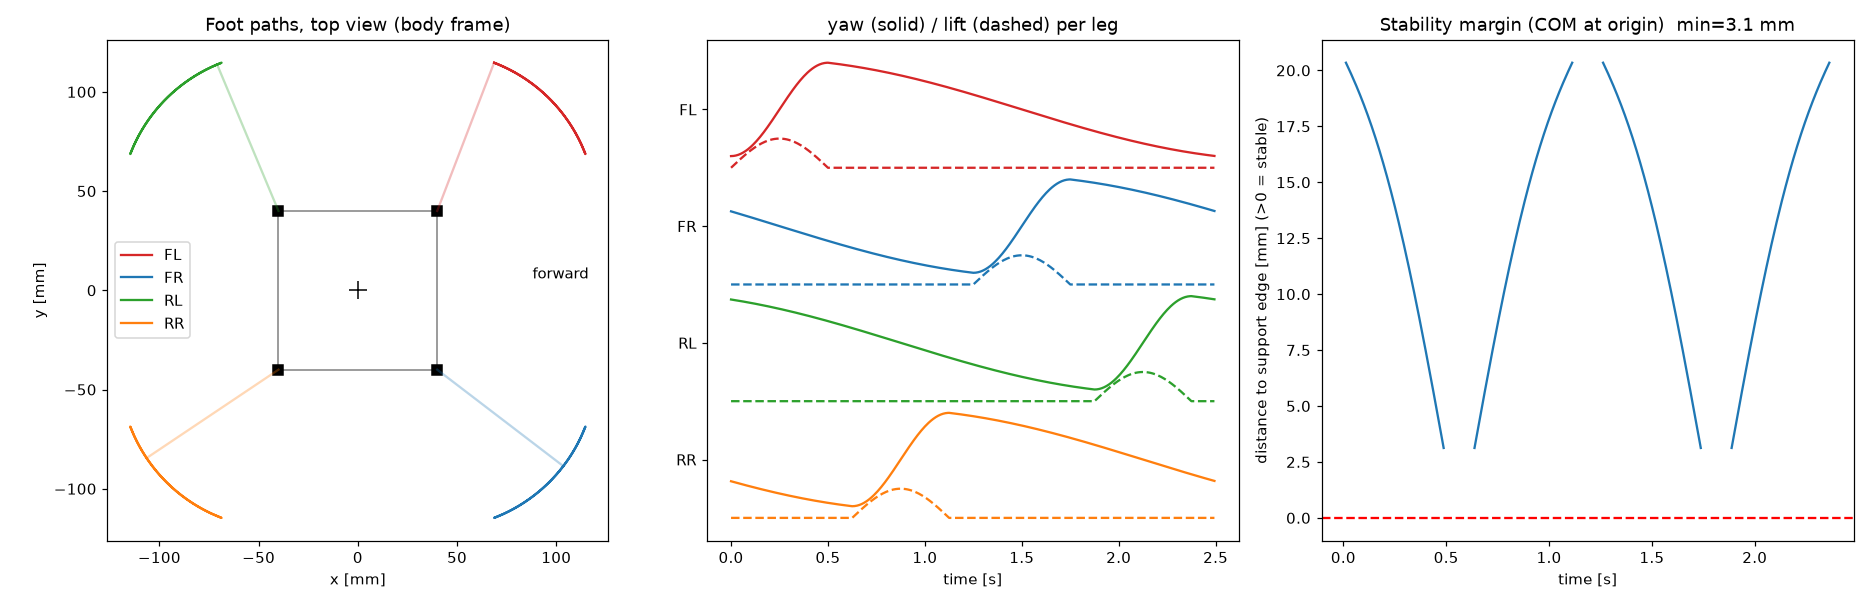
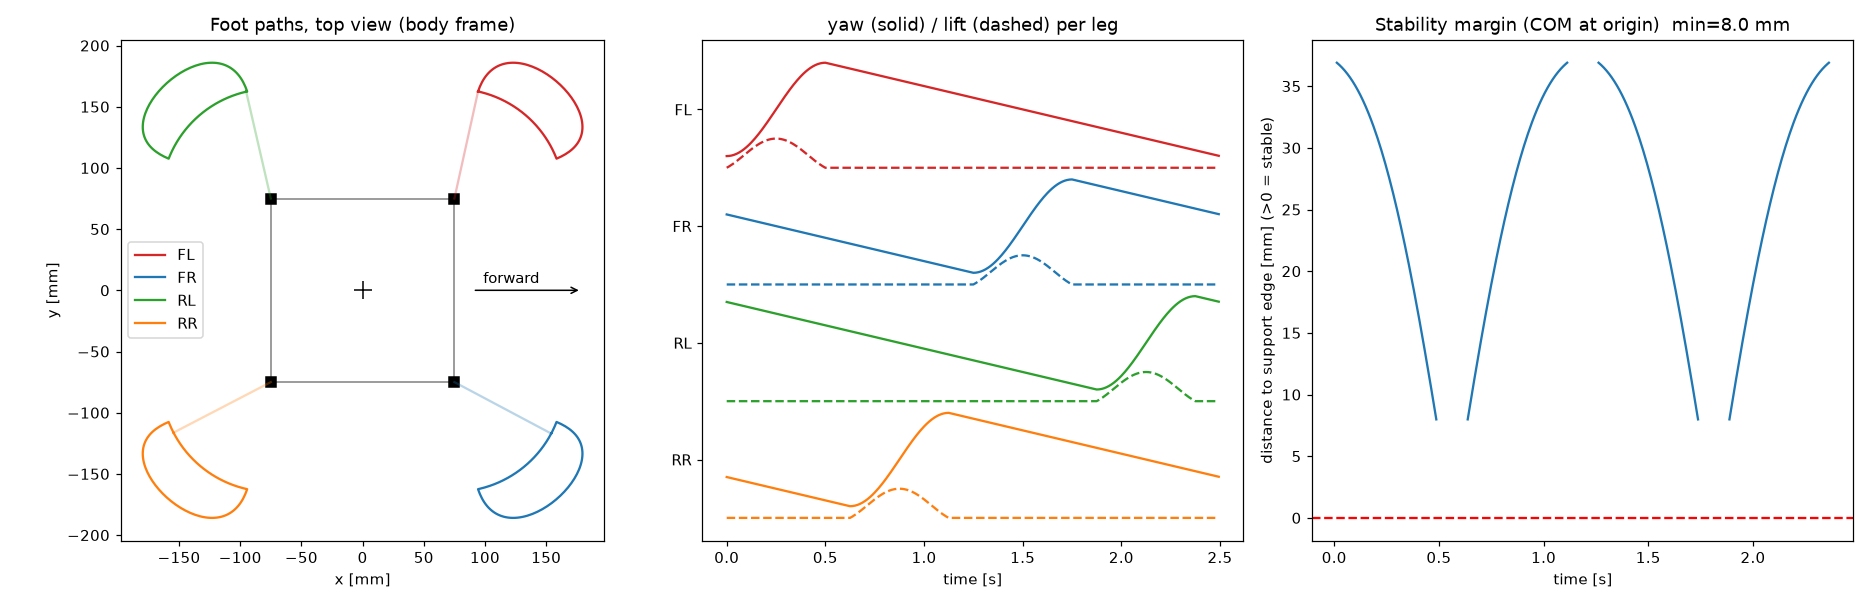
Update simulation figures and add rationale for not using inverse kinematics

diff --git a/sim/gait_sim.py b/sim/gait_sim.py
@@ -2,6 +2,7 @@
 実行: python sim/gait_sim.py   -> sim/gait.png, sim/gait.gif を出力
 パラメータ・歩容式は gait_core.py。
 """
+import os
 import matplotlib
 matplotlib.use("Agg")
 import matplotlib.pyplot as plt

diff --git a/docs/gait_kinematics.md b/docs/gait_kinematics.md
@@ -94,3 +94,26 @@ $$\theta_{\text{knee}, i} = 90^\circ + d_{\text{knee}, i} \cdot \left[ \theta_{\
 
 - $d_{\text{yaw}, i}, d_{\text{knee}, i} \in \{+1, -1\}$: 回転方向の符号反転
 - $\text{trim}_i$: 90°中立位置からの微調整オフセット
+
+---
+
+## 7. 逆運動学（IK）を採用しなかった設計判断
+
+本機では、足先座標 $(x, y, z)$ から関節角度を逆算する「逆運動学（Inverse Kinematics: IK）」ではなく、関節角を直接パラメータ生成する「順軌道生成（Forward Parametric Trajectory）」を採用しています。その工学的理由は以下の4点です：
+
+1. **自由度の幾何学的拘束（2自由度脚の劣駆動特性）**:
+   3次元空間の足先位置 $(x, y, z)$ を任意に決めるには最低3自由度が必要ですが、本機は「付け根Yaw ＋ 膝Knee」の2自由度です。
+   膝の回転によって高さを変えると水平リーチ $R = L_1 + L_2 \sin\theta_{\text{shank}}$ も同時に変化するため、$z$ と $R$ を独立に制御できません。任意の空間座標を指定しても数学的に解が存在しないため、IKを解く必然性が低い構成です。
+
+2. **Arduino Uno（ATmega328P）の演算リソースと50Hz周期保証**:
+   ATmega328P は 16MHz、RAM 2KB、ハードウェアFPU非搭載の8ビットマイコンです。
+   4脚×2関節の逆三角関数（`atan2`, `acos`, `sqrt`）を毎回解くとCPU負荷が高まり、20ms（50Hz）の厳密な制御ループ周期を維持できなくなるリスクがあります。
+   一方、三角関数を用いた順軌道生成であれば極めて軽量に計算が完了し、制御周期を確実に死守できます。
+
+3. **特異点（Singularity）の回避とサーボ保護**:
+   IKでは可動域限界付近でヤコビアンの逆行列が発散し、サーボ指令角度が急激に跳躍してギア欠けやストールを引き起こす危険があります。
+   関節空間（Joint Space）で直接滑らかな連続波形（サイン・コサイン）を生成することで、物理可動範囲 $[0^\circ, 180^\circ]$ を絶対に逸脱しない安全性が数理的に保証されます。
+
+4. **実機調整（キャリブレーション）の容易性**:
+   3Dプリントの寸法公差やサーボホーンの差し込み誤差に対し、関節空間制御であれば `yawTrim` や `kneeTrim`、`YAW_AMP`、`KNEE_LIFT` がサーボ角度と1対1で直感的に対応しており、実機チューニングが極めて容易です。
+
